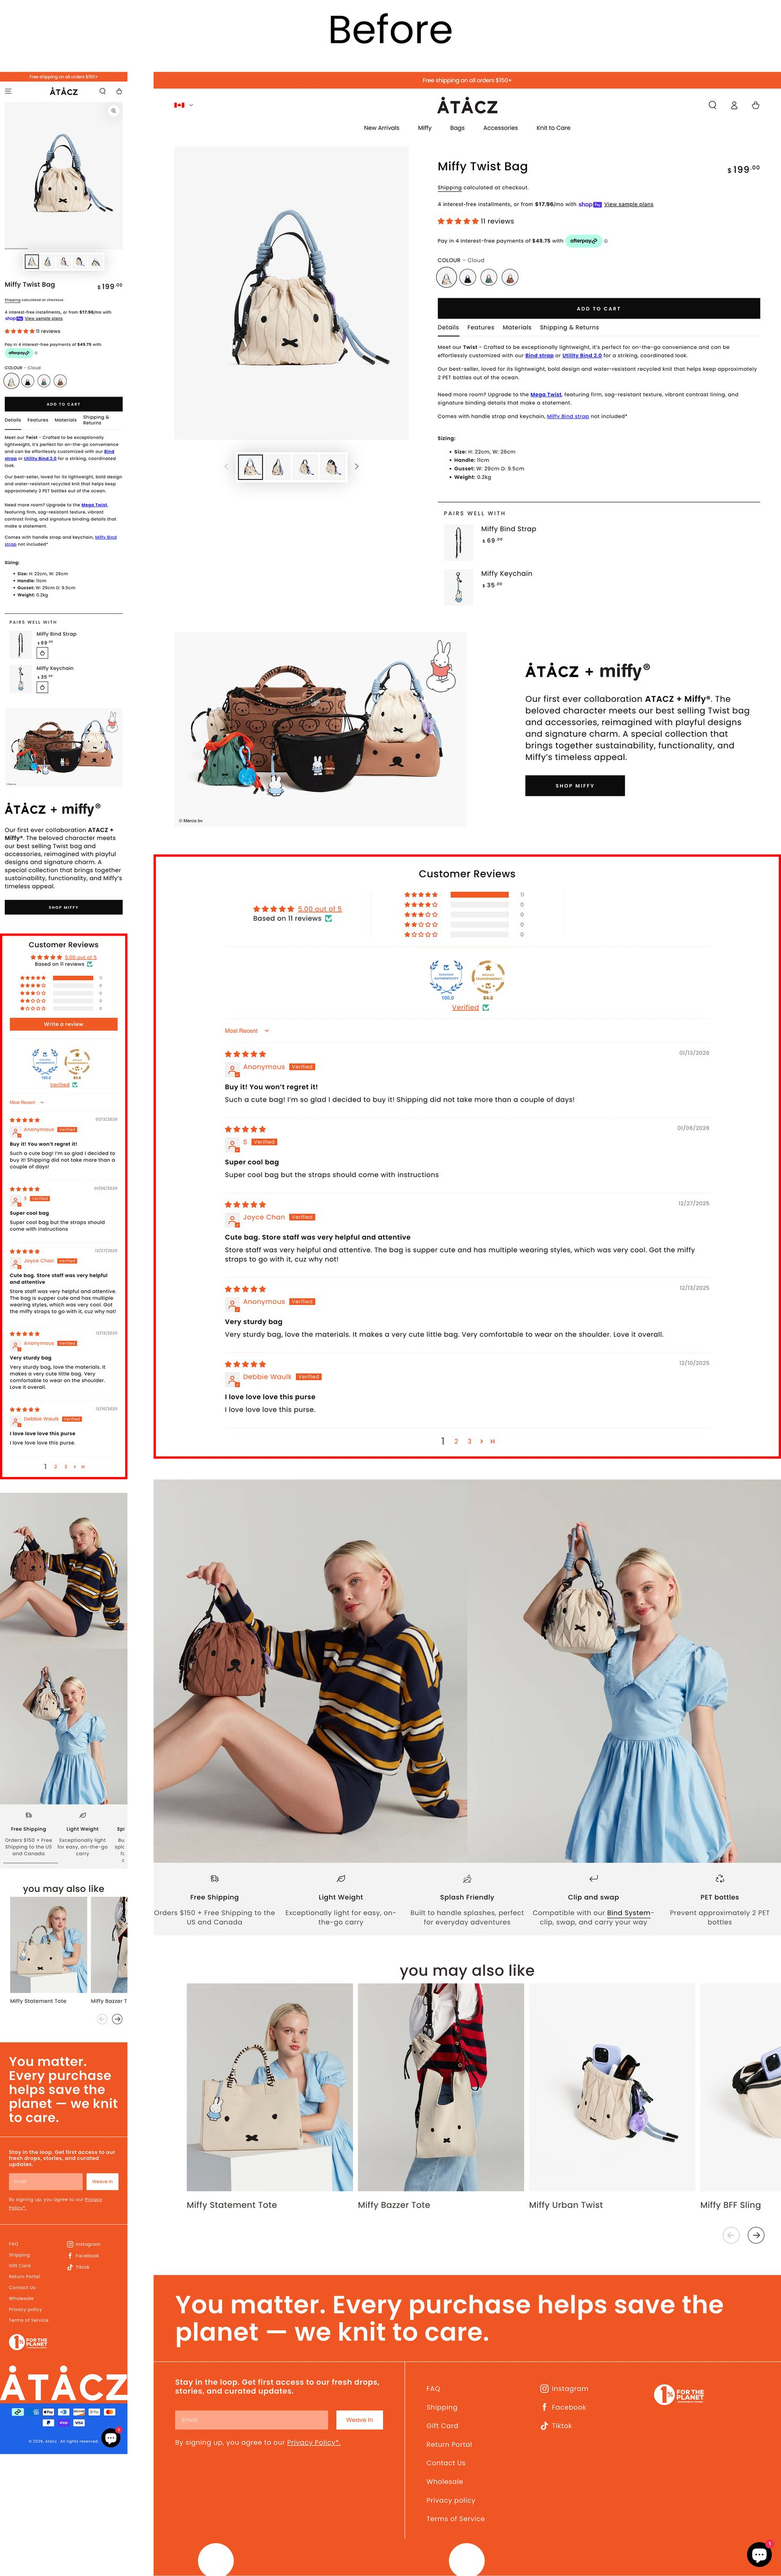
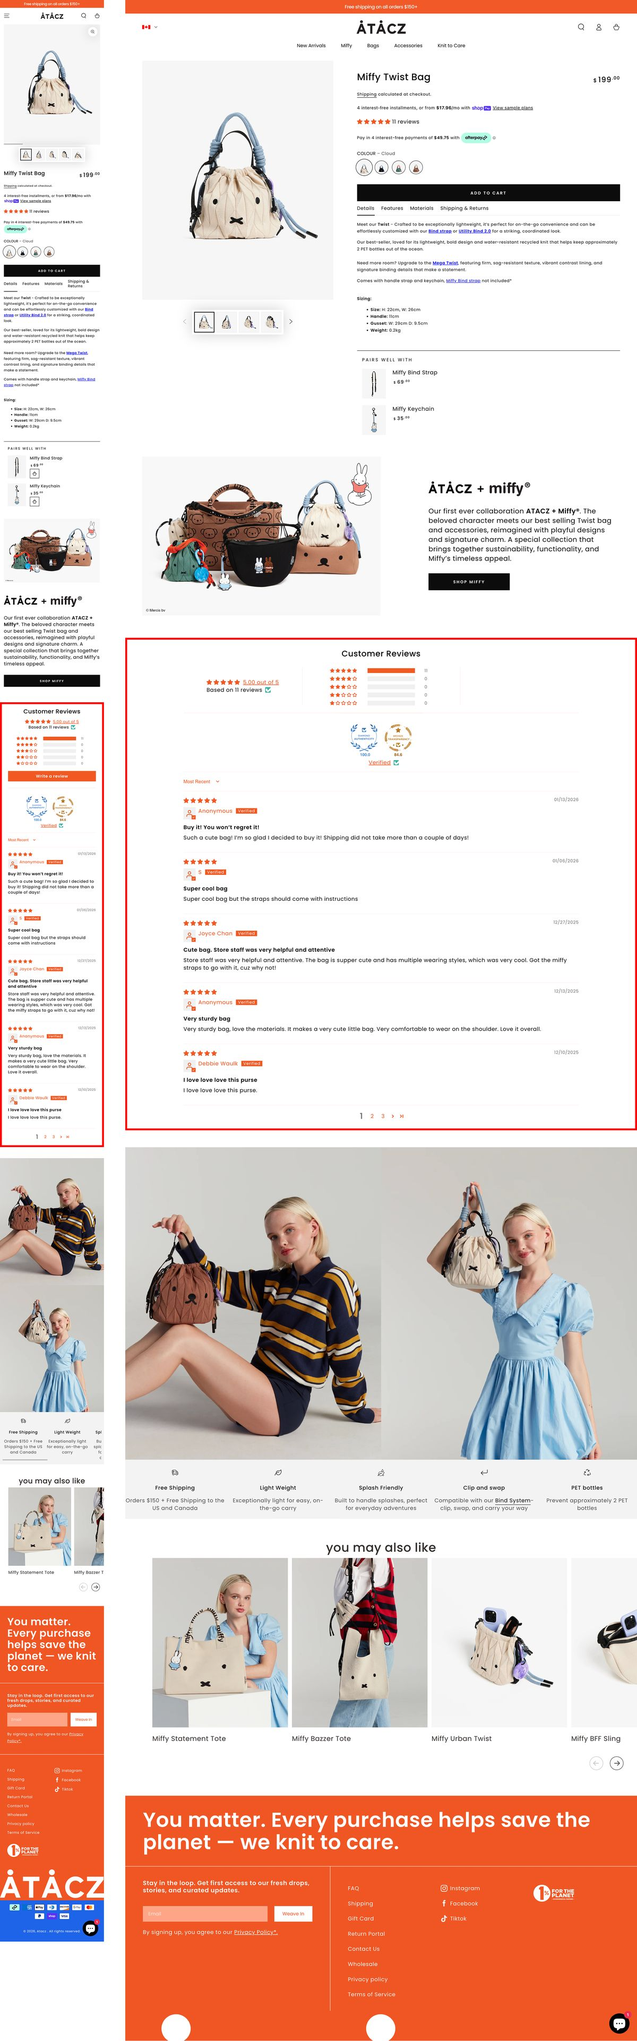
Colour the review stars, pad the accordion, and level the two columns
The stars had no fill colour because I never measured them. The live
widget fills #f5a623 over a #dcdcdc base and clips to the rating, which
is how 4.6 shows as four and a half rather than five. Now the header
badge and the summary run at 90%, the five-star review at 100% and the
four-star one at 80%. The accordion gets the white padding it was
missing.

Before is Frame 10, which drops the baked-in "Before" banner that
duplicated the column label. 5.9MB to 446KB.

Levelling the two columns took three passes and each failure was a
different way of not reading the box model. A plain 1fr row takes its
automatic minimum from its content, so the 3845px image refused to
shrink; minmax(0, 1fr) fixed the track but the window still contributed
that height to the row, so the before column ran 279px past the after;
the scroller is now absolute and contributes nothing, leaving the after
to size the row. Then it still would not level, because align-items:
start in the desktop media query was overriding the stretch the whole
arrangement depends on.

Measured 320 to 1600: heights equal, floors aligned, the before scrolls
inside its frame, the pair scrolls horizontally below 750, no page
overflow.

Claude-Session: https://claude.ai/code/session_01QabbdZ8UhoEYFEV8nS4Faj

diff --git a/style.css b/style.css
@@ -668,9 +668,26 @@ html.js :is(.rows li, .section-head, .hero-caption, .prose > *).is-in {
    inside a fixed window the way the hero frames do — otherwise it is 2400px against the
    after's 350 and the pairing means nothing. */
 .cmp { margin: 2rem 0; display: grid; gap: 1.25rem; }
-.cmp__side { margin: 0; display: grid; align-content: start; gap: 0.6rem; }
+/* 두 칸은 같은 그리드 행이라 높이가 같아진다. 비포 칸 안에서 창을 1fr 로 두면
+   라벨·캡션을 뺀 나머지를 창이 먹어서 애프터와 바닥이 맞는다 — 고정 높이(26rem)로는
+   애프터가 길어질 때마다 어긋난다.
+   Both sides share a grid row, so they are already equal height; making the window the
+   1fr row inside the before column lands its floor on the after's. A fixed height drifts
+   out of alignment whenever the after grows. */
+/* minmax(0, 1fr) 이어야 한다. 그냥 1fr 은 자동 최소 크기가 내용(=3845px 짜리 이미지)이라
+   창이 전혀 줄지 않고, 오히려 비포 칸이 애프터보다 279px 더 길어졌다(1280 실측).
+   Must be minmax(0, 1fr): a plain 1fr takes its automatic minimum from the content, so
+   the window refused to shrink and the before column ran 279px past the after. */
+.cmp__side { margin: 0; display: grid; grid-template-rows: auto minmax(0, 1fr) auto; gap: 0.6rem; }
 .cmp__label { color: var(--muted); }
-.cmp__window { height: 26rem; overflow-y: auto; border: 1px solid var(--line); background: var(--tint); }
+/* 스크롤러를 absolute 로 띄운다. 창이 직접 스크롤하면 그 안의 3845px 짜리 이미지가
+   비포 칸의 내재 높이가 되어 행 높이를 결정해 버리고, 애프터(954)보다 279px 길어졌다.
+   absolute 는 높이에 기여하지 않으므로 행은 애프터가 정하고 창이 그 높이를 채운다.
+   The scroller is absolute: with the window scrolling directly, the 3845px image became
+   the before column's intrinsic height and set the row, running 279px past the after.
+   Absolute contributes no height, so the after sizes the row and the window fills it. */
+.cmp__window { position: relative; min-height: 14rem; border: 1px solid var(--line); background: var(--tint); }
+.cmp__scroll { position: absolute; inset: 0; overflow-y: auto; overscroll-behavior-y: contain; }
 .cmp__window img { display: block; width: 100%; height: auto; }
 .cmp__side figcaption { font-size: 0.7rem; line-height: 1.7; }
 .cmp .demo { margin: 0; }
@@ -685,9 +702,12 @@ html.js :is(.rows li, .section-head, .hero-caption, .prose > *).is-in {
     gap: 0.75rem;
   }
   .cmp__side { scroll-snap-align: start; }
-  .cmp__window { height: 20rem; }
 }
-@media (min-width: 750px) { .cmp { grid-template-columns: 1fr 1fr; align-items: start; } }
+/* align-items 를 건드리지 않는다 — 기본값 stretch 라야 비포 칸이 애프터 높이까지 늘어난다.
+   start 로 두면 두 칸의 바닥이 어긋난다(1280 실측 314 대 954).
+   Leave align-items alone: the default stretch is what makes the before column reach
+   the after's height; start left the two floors 640px apart. */
+@media (min-width: 750px) { .cmp { grid-template-columns: 1fr 1fr; } }
 
 /* ── 리뷰 아코디언 (01 Dec 01) ──
    실물 PDP 에서 읽은 값으로 다시 만들었다. 앞선 판은 세 군데가 틀렸다:
@@ -697,7 +717,7 @@ html.js :is(.rows li, .section-head, .hero-caption, .prose > *).is-in {
    Rebuilt from the live PDP: the rules are 1px #0c0c0c not the light grey, the marker is
    the theme's caret rather than a +/-, and the reviews body carries a score, a histogram
    and individual reviews instead of one line. */
-.demo .acc { width: 100%; max-width: 32rem; background: var(--bg); }
+.demo .acc { width: 100%; max-width: 32rem; padding: 0.25rem 1.4rem 1.1rem; background: var(--bg); }
 .demo .acc__row { border-top: 1px solid #0c0c0c; }
 .demo .acc__head {
   display: flex;
@@ -716,7 +736,19 @@ html.js :is(.rows li, .section-head, .hero-caption, .prose > *).is-in {
 .demo .acc__head::marker, .demo .acc__head::-webkit-details-marker { content: ""; display: none; }
 .demo .acc__caret { flex: 0 0 auto; width: 10px; height: 6px; margin-left: auto; transition: transform 0.2s ease; }
 .demo .acc__row[open] > .acc__head .acc__caret { transform: rotate(180deg); }
-.demo .acc__stars { color: #0c0c0c; font-size: 10px; letter-spacing: 1px; }
+/* 별은 회색 바탕 위에 호박색을 --fill 만큼 덮는다 — 실물이 그렇게 4.6을 4.5칸으로
+   보여준다. 색은 라이브에서 읽은 값이다: 채움 #f5a623, 바탕 #dcdcdc, 13px.
+   Amber over grey clipped to --fill, which is how the real widget shows 4.6 as four and
+   a half. Colours read off the live page rather than picked. */
+.demo .stars { position: relative; display: inline-block; font-size: 13px; line-height: 1; letter-spacing: 1px; color: #dcdcdc; white-space: nowrap; }
+.demo .stars::before { content: "\2605\2605\2605\2605\2605"; }
+.demo .stars__on {
+  position: absolute;
+  inset: 0;
+  width: var(--fill, 100%);
+  overflow: hidden;
+  color: #f5a623;
+}
 .demo .acc__count { color: #6b6b6b; font-size: 13px; }
 .demo .acc__body { padding: 0 0 1.1rem; font-family: var(--shop); font-size: 13px; line-height: 1.65; color: #4a4a4a; }
 .demo .acc__body p { margin: 0; }

diff --git a/work-1.html b/work-1.html
@@ -142,7 +142,9 @@
         <figure class="cmp__side">
           <p class="cmp__label label">Before</p>
           <div class="cmp__window">
-            <img src="images/01-pdp/02.jpg" alt="The old product page with the review section outlined: a full-width Customer Reviews block sitting between the product information and the lifestyle photography" width="1472" height="4852" loading="lazy">
+            <div class="cmp__scroll">
+            <img src="images/01-pdp/02.jpg" alt="The old product page with the review section outlined: a full-width Customer Reviews block sitting between the product information and the lifestyle photography" width="1200" height="3845" loading="lazy">
+            </div>
           </div>
           <figcaption class="label muted">The review block as it rendered on the old template. Scroll the frame.</figcaption>
         </figure>
@@ -169,16 +171,16 @@
               <div class="acc__body"><p>Free Canada shipping on orders over $150. See the shipping and return policies for full delivery information.</p></div>
             </details>
             <details class="acc__row" data-reviews-row open>
-              <summary class="acc__head"><span class="acc__title">Reviews <span class="acc__stars" aria-hidden="true">&#9733;&#9733;&#9733;&#9733;&#9733;</span> <span class="acc__count">7</span></span><svg class="acc__caret" viewBox="0 0 24 15" fill="none" aria-hidden="true"><path fill-rule="evenodd" clip-rule="evenodd" d="M12 15c-.3 0-.6-.1-.8-.4l-11-13C-.2 1.2-.1.5.3.2c.4-.4 1.1-.3 1.4.1L12 12.5 22.2.4c.4-.4 1-.5 1.4-.1.4.4.5 1 .1 1.4l-11 13c-.1.2-.4.3-.7.3z" fill="currentColor"/></svg></summary>
+              <summary class="acc__head"><span class="acc__title">Reviews <span class="stars" style="--fill: 90%" aria-hidden="true"><span class="stars__on">&#9733;&#9733;&#9733;&#9733;&#9733;</span></span> <span class="acc__count">7</span></span><svg class="acc__caret" viewBox="0 0 24 15" fill="none" aria-hidden="true"><path fill-rule="evenodd" clip-rule="evenodd" d="M12 15c-.3 0-.6-.1-.8-.4l-11-13C-.2 1.2-.1.5.3.2c.4-.4 1.1-.3 1.4.1L12 12.5 22.2.4c.4-.4 1-.5 1.4-.1.4.4.5 1 .1 1.4l-11 13c-.1.2-.4.3-.7.3z" fill="currentColor"/></svg></summary>
               <div class="acc__body">
-                <p class="rev__top"><span class="rev__score">4.6</span> <span class="acc__stars" aria-hidden="true">&#9733;&#9733;&#9733;&#9733;&#9733;</span> <span class="rev__count">7 reviews</span></p>
+                <p class="rev__top"><span class="rev__score">4.6</span> <span class="stars" style="--fill: 90%" aria-hidden="true"><span class="stars__on">&#9733;&#9733;&#9733;&#9733;&#9733;</span></span> <span class="rev__count">7 reviews</span></p>
                 <ul class="rev__hist"><li><span class="rev__n">5</span><span class="rev__bar"><span style="width:57%"></span></span><span class="rev__n">4</span></li><li><span class="rev__n">4</span><span class="rev__bar"><span style="width:43%"></span></span><span class="rev__n">3</span></li><li><span class="rev__n">3</span><span class="rev__bar"><span style="width:0%"></span></span><span class="rev__n">0</span></li><li><span class="rev__n">2</span><span class="rev__bar"><span style="width:0%"></span></span><span class="rev__n">0</span></li><li><span class="rev__n">1</span><span class="rev__bar"><span style="width:0%"></span></span><span class="rev__n">0</span></li></ul>
                 <div class="rev__item">
-                  <p class="rev__meta"><span class="acc__stars" aria-hidden="true">&#9733;&#9733;&#9733;&#9733;&#9733;</span> <span>28 days ago</span> <span class="rev__verified">Verified buyer</span></p>
+                  <p class="rev__meta"><span class="stars" style="--fill: 100%" aria-hidden="true"><span class="stars__on">&#9733;&#9733;&#9733;&#9733;&#9733;</span></span> <span>28 days ago</span> <span class="rev__verified">Verified buyer</span></p>
                   <p class="rev__text">Love my new bag!</p>
                 </div>
                 <div class="rev__item">
-                  <p class="rev__meta"><span class="acc__stars" aria-hidden="true">&#9733;&#9733;&#9733;&#9733;&#9733;</span> <span>1 month ago</span> <span class="rev__verified">Verified buyer</span></p>
+                  <p class="rev__meta"><span class="stars" style="--fill: 80%" aria-hidden="true"><span class="stars__on">&#9733;&#9733;&#9733;&#9733;&#9733;</span></span> <span>1 month ago</span> <span class="rev__verified">Verified buyer</span></p>
                   <p class="rev__text">Handy size and I like that it is a little different. Too expensive though.</p>
                 </div>
 </div>
